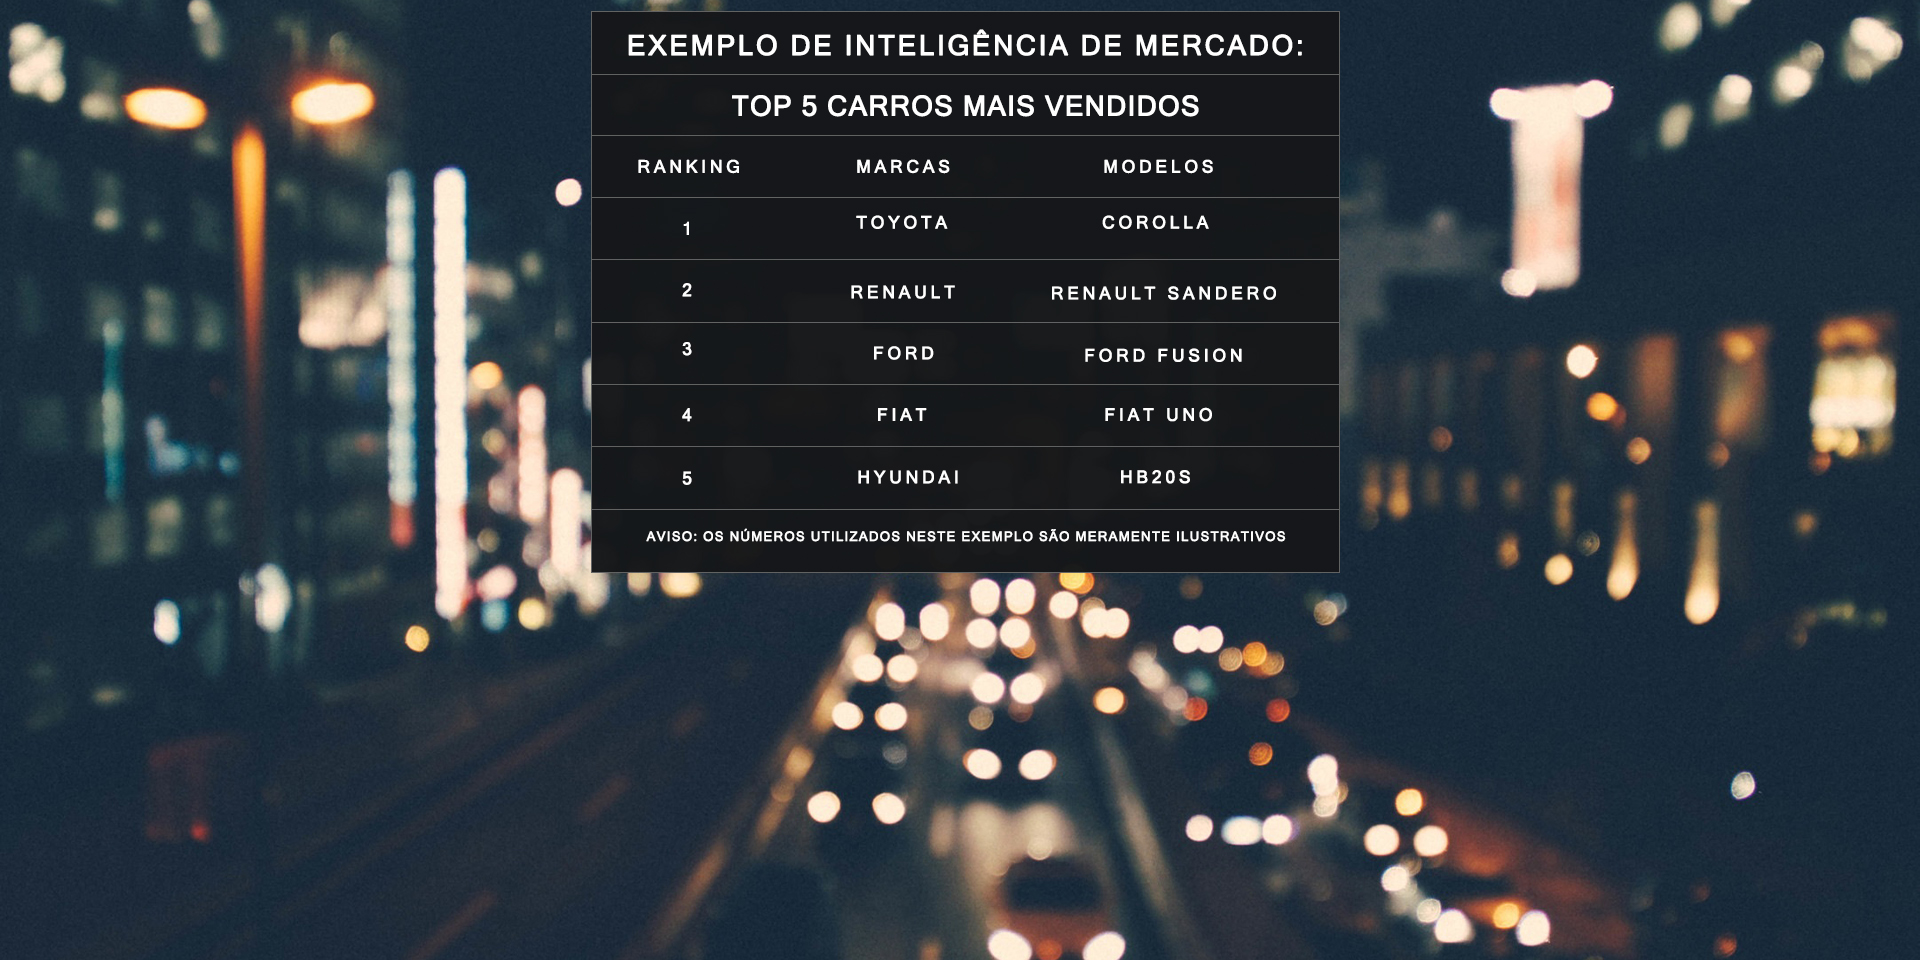
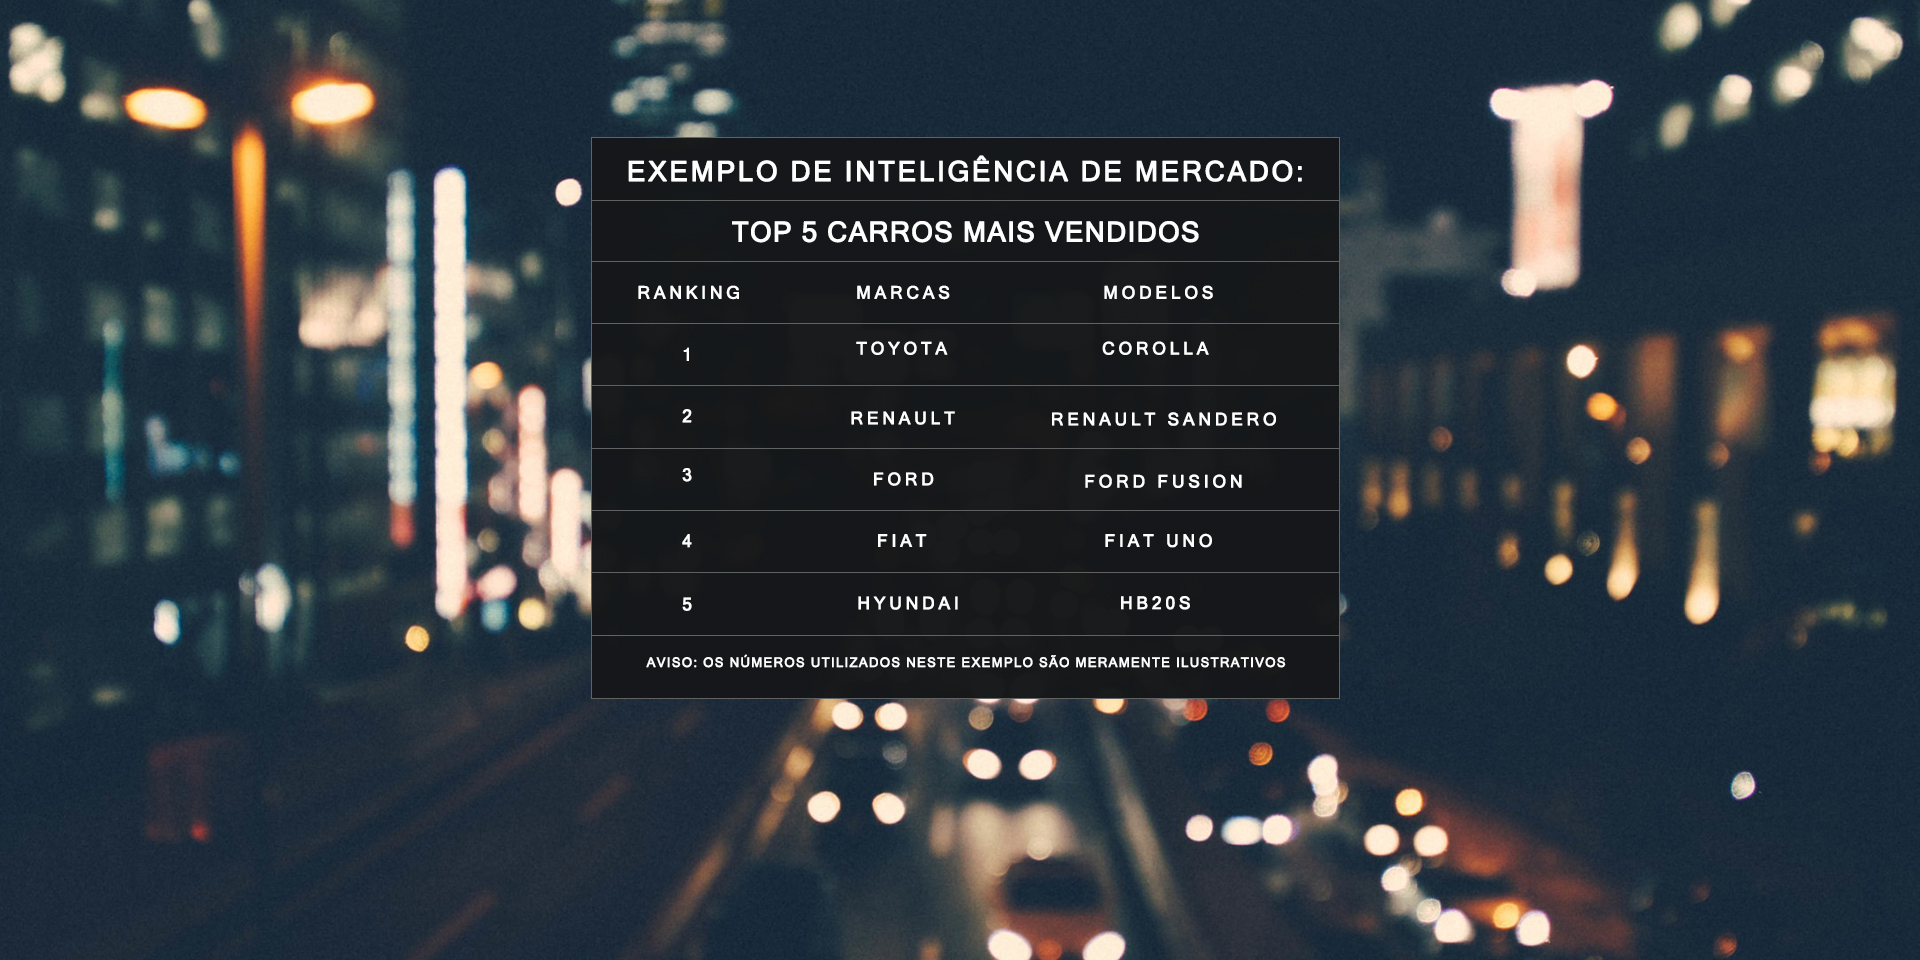
modifiquei a posição das imagens de fundo na homepage

diff --git a/FlaskCodePacote/Templates/Homepage.html b/FlaskCodePacote/Templates/Homepage.html
@@ -31,12 +31,11 @@
     </div>
     <div class="carousel-item" style="height: auto; max-height: 900px;">
       <img class="d-block w-100" src="{{ url_for('static', filename='imagens/Homepage-Slide03.jpg')}}" alt="Terceiro Slide" style="opacity: 1">
-      <div class="container carousel-caption d-lg-block mb-5">
-        <div class="">
-    <h5 class="text-left" style="color:white; font-size: 3vw;"></h5>
-    <p class="" style="font-size: 2vw; letter-spacing: 3px; background-color: black; margin: 10px; opacity: .9;"> Tabela de inteligência de mercado a ser emitida no site</p>
-    </div>
-    </div>
+      <div class="col-lg mx-auto text-center carousel-caption d-lg-block mb-2">
+      
+          <h5 class="text-center" style="color:white; font-size: 3vw;"></h5>
+          <p class="text-center mx-auto" style="font-size: 2vw; letter-spacing: 3px; background-color: black; opacity: .9; margin: 0;"> Tabela de inteligência de mercado a ser emitida no site</p> 
+      </div>
     </div>
     <div class="carousel-item" style="height: auto; max-height: 900px;">
       <img class="d-block w-100" src="{{ url_for('static', filename='imagens/Homepage-Slide04.jpg')}}" alt="Quarto Slide" style="opacity: 1">
